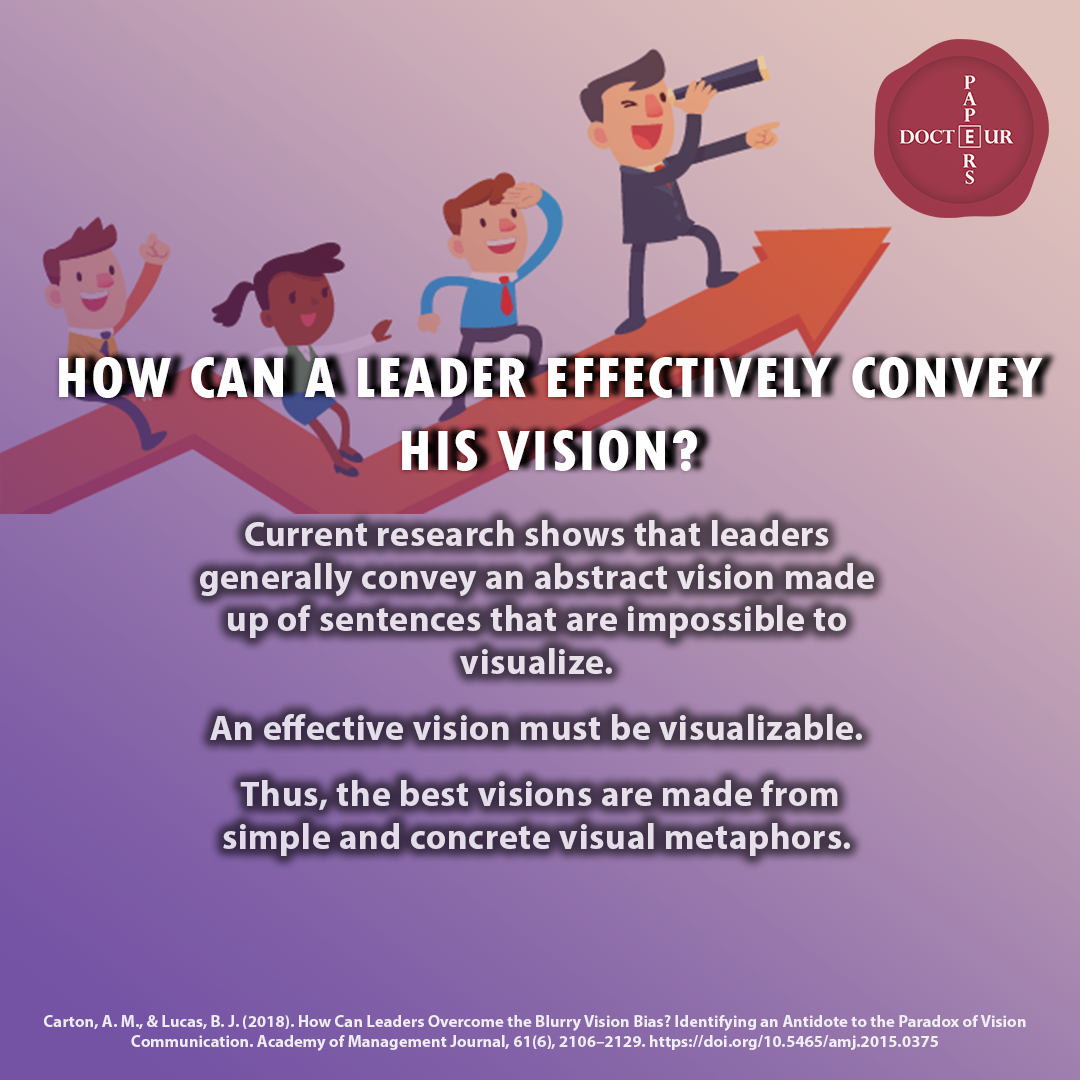
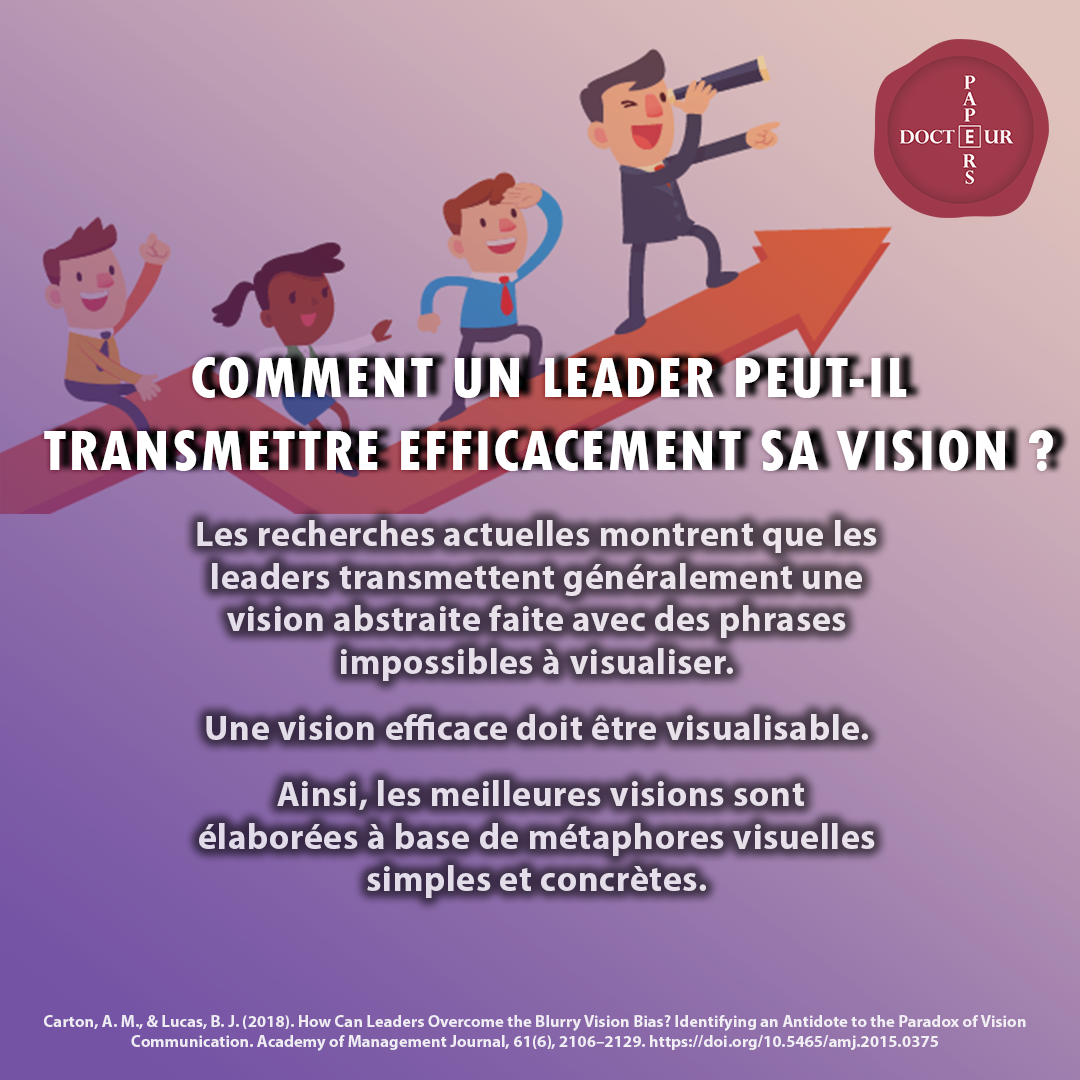
1er post fr

Changed region(s): [[0.0306, 0.3056, 1.0, 0.8556]]

diff --git a/content/fr/post/leader-vision/index.md b/content/fr/post/leader-vision/index.md
@@ -1,15 +1,32 @@
 ---
-title: How can a leader effectively convey his vision ?
+title: Comment un leader peut-il transmettre efficacement sa vision ?
 date: 2021-01-29
----
-
-Current research shows that leaders generally convey an abstract vision made up of sentences that are impossible to visualize.
-An effective vision must be visualizable.
-Thus, the best visions are made from simple and concrete visual metaphors
-
 image:
   placement: 1
   caption: "leader and vision"
   focal_point: "Center"
   preview_only: false
   alt_text: An optional description of the image for screen readers.
+
+links:
+  - icon_pack: fab
+    icon: instagram
+    name: Instagram
+    url: 'https://www.instagram.com/docteurpapers/'
+  - icon_pack: fab
+    icon: twitter
+    name: Twitter
+    url: 'https://twitter.com/adfillon'
+  - icon_pack: fab
+    icon: facebook
+    name: Facebook
+    url: 'https://www.facebook.com/docteurpapers'
+  - icon_pack: fab
+    icon: youtube
+    name: Youtube
+    url: 'https://www.youtube.com/channel/UC0HGcgZkpxmkFxYSctLsE2Q'
+---
+
+Les recherches actuelles montrent que les leaders transmettent généralement une vision abstraite faite avec des phrases impossibles à visualiser.
+Une vision efficace doit être visualisable.
+Ainsi, les meilleures visions sont élaborées à base de métaphores visuelles simples et concrètes.
